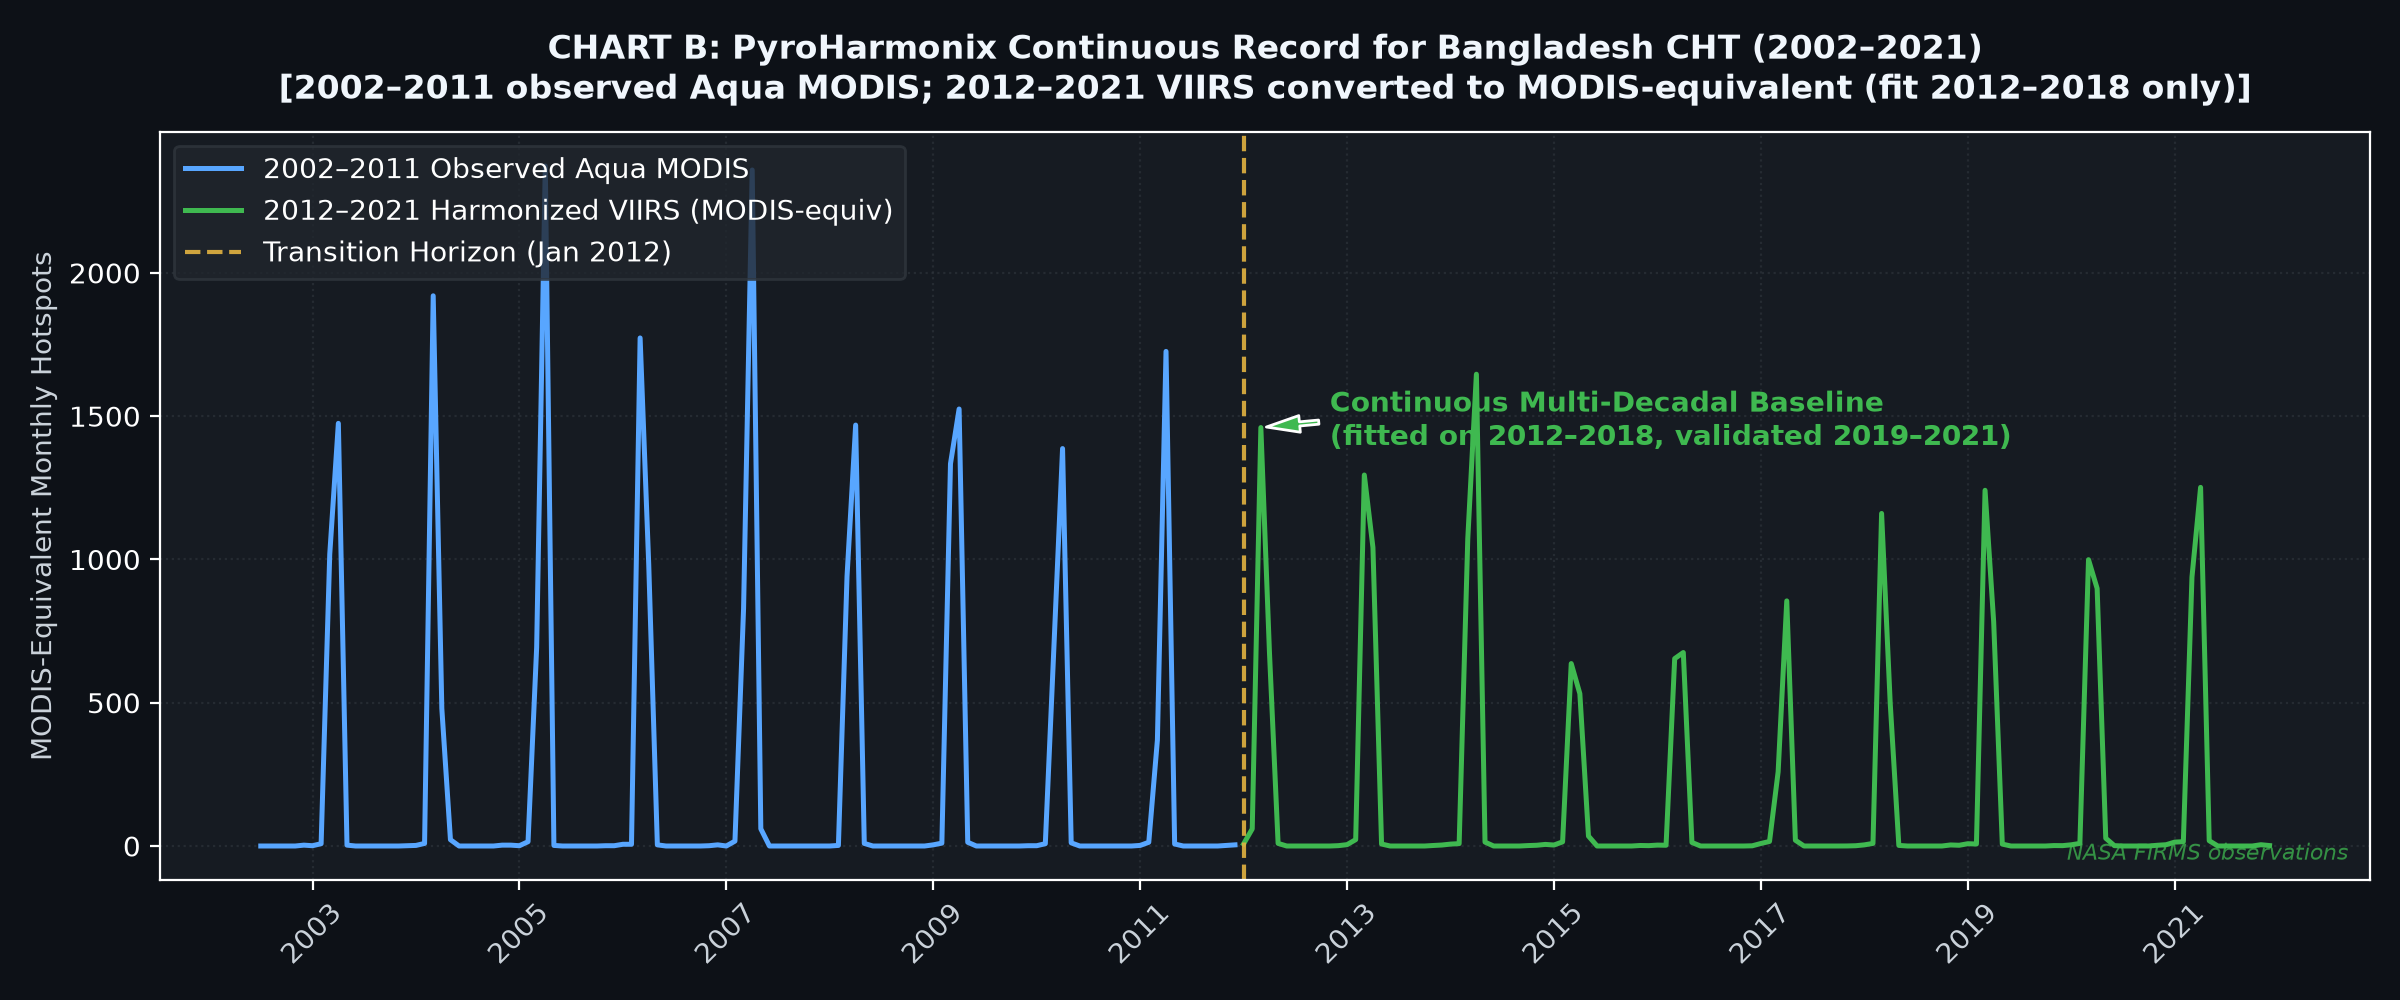
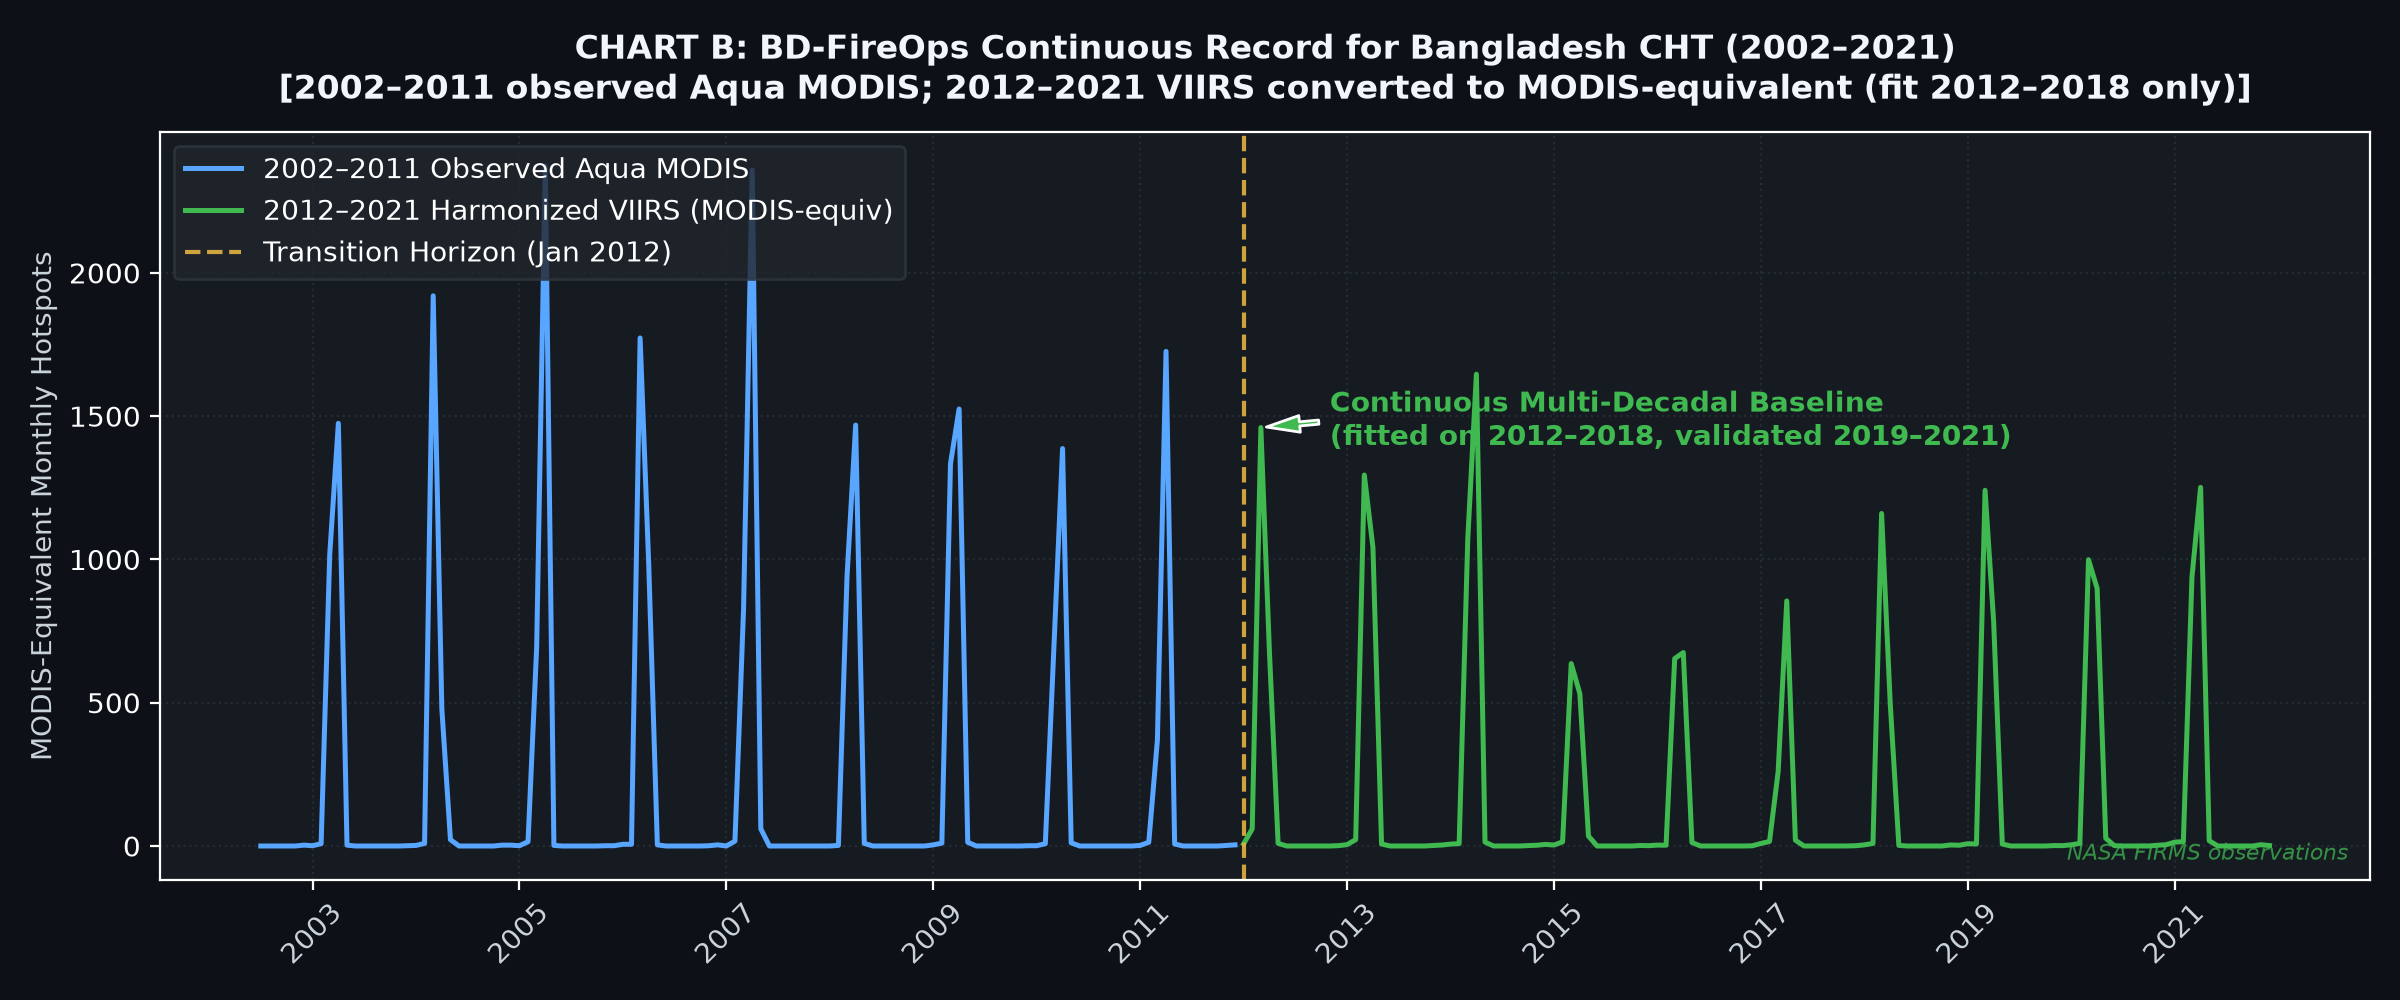
fix(data): clamp study window, audit Aqua/Terra split, atomic clean writes
VIIRS 2022-01-01 straggler row now dropped loudly (dropped_outside_window) instead of silently vanishing in aggregate; MODIS audit records pre-filter raw_aqua/terra split with post-filter note; clean.py writes atomically so a killed run cannot publish a truncated CSV. Re-ran pipeline: headline fit unchanged (slope 0.2694, RMSE 55.67, R2 0.9811); README/portal copy synced.

Changed region(s): [[0.2188, 0.031, 0.8438, 0.062]]

diff --git a/analysis/clean.py b/analysis/clean.py
@@ -18,7 +18,9 @@ from __future__ import annotations
 
 import argparse
 import json
+import os
 import sys
+import tempfile
 from pathlib import Path
 
 import numpy as np
@@ -36,6 +38,16 @@ BBOX_W, BBOX_S, BBOX_E, BBOX_N = (float(v) for v in CHT_BBOX.split(","))
 
 MODIS_CONF_MIN = 30
 VIIRS_DROP_CONF = {"l"}
+
+# Study-period clamp (plan v3 §2 scope lock, matches download.py WINDOWS).
+# FIRMS can return a straggler day past the window edge (e.g. 2022-01-01 inside
+# a 2021-12-29_2021-12-31 chunk). Without this gate that row sits in clean_*.csv
+# while the monthly grid ends at 2021-12, so aggregate drops it SILENTLY and the
+# audit last_date disagrees with data_source.json windows. Clamp loudly instead.
+STUDY_WINDOWS = {
+    "modis": ("2002-07-01", "2021-12-31"),
+    "viirs": ("2012-01-01", "2021-12-31"),
+}
 
 # True-study-area gate: the download bbox is a rectangle that also covers parts of
 # India (Mizoram) and Myanmar (Rakhine). We keep only detections inside the three
@@ -141,6 +153,31 @@ def _drop_bad_coords(df: pd.DataFrame) -> pd.DataFrame:
     return df[ok.fillna(False)]
 
 
+def _clamp_study_window(df: pd.DataFrame, audit: dict, sensor: str) -> pd.DataFrame:
+    """Drop detections outside the plan scope window; count them loudly.
+
+    Must run AFTER acq_date is parsed to UTC (NaT rows are already gone) and
+    BEFORE clean_rows is recorded, so clean_rows + dropped counts reconcile
+    and aggregate.py never silently ignores a clean row outside its grid.
+    """
+    start_s, end_s = STUDY_WINDOWS[sensor]
+    audit["study_window"] = f"{start_s} .. {end_s}"
+    if df.empty:
+        audit["dropped_outside_window"] = 0
+        return df
+    start = pd.Timestamp(start_s, tz="UTC")
+    # End-of-day inclusive: a 2021-12-31 detection is in-scope, 2022-01-01 is not.
+    end = pd.Timestamp(end_s, tz="UTC") + pd.Timedelta(days=1) - pd.Timedelta(nanoseconds=1)
+    ok = (df["acq_date"] >= start) & (df["acq_date"] <= end)
+    audit["dropped_outside_window"] = int((~ok.fillna(False)).sum())
+    if audit["dropped_outside_window"]:
+        bad = df.loc[~ok.fillna(False), "acq_date"]
+        audit["outside_window_range"] = [str(bad.min().date()), str(bad.max().date())]
+        print(f"[CLEAN] {sensor}: dropped {audit['dropped_outside_window']} row(s) "
+              f"outside study window {audit['study_window']}")
+    return df[ok.fillna(False)]
+
+
 def clean_modis(df: pd.DataFrame, keep_low_conf: bool = False) -> tuple[pd.DataFrame, dict]:
     audit: dict = {"sensor": "modis", "raw_rows": int(len(df))}
     if df.empty:
@@ -148,6 +185,13 @@ def clean_modis(df: pd.DataFrame, keep_low_conf: bool = False) -> tuple[pd.DataF
         return df, audit
 
     df = df.copy()
+    # MODIS raw split is counted BEFORE the confidence gate: aqua_rows/terra_rows
+    # below are post-filter, so raw != aqua+terra when low-confidence rows were
+    # removed first (audit note added to stop readers mis-adding them).
+    if "satellite" in df.columns:
+        _raw_sat = df["satellite"].astype(str)
+        audit["raw_aqua_rows"] = int(_raw_sat.str.contains("AQUA", case=False, na=False).sum())
+        audit["raw_terra_rows"] = int(_raw_sat.str.contains("TERRA", case=False, na=False).sum())
     if "confidence" in df.columns:
         df["confidence_num"] = _norm_confidence(df["confidence"])
         if keep_low_conf:
@@ -173,6 +217,8 @@ def clean_modis(df: pd.DataFrame, keep_low_conf: bool = False) -> tuple[pd.DataF
     n_terra = int(probe.str.contains("TERRA", case=False, na=False).sum())
     audit["aqua_rows"] = n_aqua
     audit["terra_rows"] = n_terra
+    audit["aqua_terra_note"] = ("post-confidence-filter split; raw_aqua_rows/raw_terra_rows "
+                                "are the pre-filter split")
 
     if n_aqua > 0:
         df = df[aqua_mask]
@@ -200,6 +246,8 @@ def clean_modis(df: pd.DataFrame, keep_low_conf: bool = False) -> tuple[pd.DataF
     df["acq_date"] = pd.to_datetime(df["acq_date"], errors="coerce", utc=True)
     df = df[df["acq_date"].notna()]
     audit["dropped_bad_dates"] = before - int(len(df))
+
+    df = _clamp_study_window(df, audit, "modis")
 
     audit["clean_rows"] = int(len(df))
     return df.reset_index(drop=True), audit
@@ -256,6 +304,8 @@ def clean_viirs(df: pd.DataFrame, keep_low_conf: bool = False) -> tuple[pd.DataF
     df = df[df["acq_date"].notna()]
     audit["dropped_bad_dates"] = before - int(len(df))
 
+    df = _clamp_study_window(df, audit, "viirs")
+
     audit["clean_rows"] = int(len(df))
     return df.reset_index(drop=True), audit
 
@@ -285,11 +335,26 @@ def run_clean(keep_low_conf: bool = False) -> dict:
             audit["last_date"] = str(clean["acq_date"].max().date())
         out = PROCESSED / f"clean_{sensor}{'_lowconf' if keep_low_conf else ''}.csv"
 
-        # Always write a header so downstream readers never hit an empty file.
+        # Atomic write: the full 285k-row run exceeds the tool runner's 30 s
+        # limit, which once left a truncated 48k-row clean_viirs.csv in place
+        # (silent data corruption). Write to .tmp then atomically replace, so a
+        # kill can never publish a half-written CSV. Same-directory tmp keeps
+        # the replace atomic; delete=False + explicit replace afterwards.
+        tmp = out.with_suffix(".csv.tmp")
         if clean.empty:
-            pd.DataFrame(columns=raw.columns).to_csv(out, index=False)
+            pd.DataFrame(columns=raw.columns).to_csv(tmp, index=False)
         else:
-            clean.to_csv(out, index=False)
+            with tempfile.NamedTemporaryFile("w", suffix=".csv", delete=False,
+                                             dir=str(PROCESSED), newline="",
+                                             encoding="utf-8") as _tf:
+                tmp = Path(_tf.name)
+                clean.to_csv(_tf, index=False)
+                _tf.flush()
+                try:
+                    os.fsync(_tf.fileno())
+                except OSError:
+                    pass  # e.g. synthetic FS in tests without a real fd
+        os.replace(tmp, out)
         audits[sensor] = audit
         print(f"[CLEAN] {sensor}: {audit['raw_rows']} -> {audit['clean_rows']} rows "
               f"(ref={audit.get('reference_sensor', 'VIIRS S-NPP')})")

diff --git a/tests/test_pipeline.py b/tests/test_pipeline.py
@@ -63,6 +63,13 @@ pd.DataFrame(modis_rows, columns=MODIS_COLS).to_csv(m_dir / "2002-07-01_2002-07-
 pd.DataFrame(columns=MODIS_COLS).to_csv(m_dir / "2002-07-06_2002-07-10.csv", index=False)
 # later zero chunk, leaving a coverage GAP between 2002-08 and 2011-11
 pd.DataFrame(columns=MODIS_COLS).to_csv(m_dir / "2011-12-01_2011-12-05.csv", index=False)
+# out-of-window straggler: chunk name is inside coverage, but the API sometimes
+# returns a day past the study edge (real 2022-01-01 case in VIIRS). The
+# study-window clamp must drop it loudly instead of aggregating it silently.
+pd.DataFrame([{"latitude": 22.19, "longitude": 92.22, "acq_date": "2030-05-01", "acq_time": 510,
+     "satellite": "Aqua", "instrument": "MODIS", "confidence": 90, "version": "6.1",
+     "type": 0, "scan": 1.0, "track": 1.0, "frp": 20.0, "daynight": "D"}],
+    columns=MODIS_COLS).to_csv(m_dir / "2011-12-06_2011-12-10.csv", index=False)
 
 v_dir = RAW / "viirs"
 v_dir.mkdir(parents=True)
@@ -97,12 +104,18 @@ def check(name, cond, detail=""):
         print(f"FAIL: {name} {detail}")
 
 
-check("modis raw 6 rows", audits["modis"]["raw_rows"] == 6, audits["modis"])
+check("modis raw 6 rows", audits["modis"]["raw_rows"] == 7, audits["modis"])
 check("modis clean 1 row (dup+lowconf+Terra+bbox+region removed)", audits["modis"]["clean_rows"] == 1, audits["modis"])
 check("modis region gate dropped the out-of-CHT row", audits["modis"]["dropped_outside_region"] == 1, audits["modis"])
+check("study-window clamp dropped the 2030 straggler", audits["modis"].get("dropped_outside_window") == 1, audits["modis"])
+check("study window recorded", audits["modis"].get("study_window") == "2002-07-01 .. 2021-12-31", audits["modis"])
+check("raw pre-filter aqua/terra split recorded",
+      audits["modis"].get("raw_aqua_rows") == 6 and audits["modis"].get("raw_terra_rows") == 1, audits["modis"])
+check("post-filter split recorded with note",
+      audits["modis"].get("aqua_rows") == 5 and "post-confidence" in audits["modis"].get("aqua_terra_note", ""))
 check("region filter recorded with source", "geoBoundaries" in (audits["modis"].get("region_filter") or {}).get("source", ""), audits["modis"])
 check("aqua filter applied", audits["modis"]["aqua_filter_applied"] is True)
-check("terra counted but dropped", audits["modis"]["terra_rows"] == 1 and audits["modis"]["aqua_rows"] == 4,
+check("terra counted but dropped", audits["modis"]["terra_rows"] == 1 and audits["modis"]["aqua_rows"] == 5,
       audits["modis"])
 check("viirs raw 4 rows", audits["viirs"]["raw_rows"] == 4, audits["viirs"])
 check("viirs clean 2 rows (low conf 'l' + out-of-CHT dropped)", audits["viirs"]["clean_rows"] == 2, audits["viirs"])

diff --git a/analysis/aggregate.py b/analysis/aggregate.py
@@ -162,6 +162,19 @@ def run_aggregate() -> pd.DataFrame:
 
     grid = _month_grid(list(coverage.values()))
 
+    # Defence-in-depth: clean.py clamps to the study window, but if a clean row
+    # ever falls outside the monthly grid it would vanish silently here.
+    # Fail loudly (or count loudly) instead of publishing a censored series.
+    for s in SOURCES:
+        counts = _monthly_counts(cleans[s])
+        outside = [str(p) for p in counts.index if p not in grid]
+        if outside:
+            raise SystemExit(
+                f"[AGGREGATE] {s.upper()}: {len(outside)} clean month(s) outside the monthly grid "
+                f"({', '.join(sorted(outside)[:5])}) — clean.py study-window clamp and "
+                "data/raw chunk coverage disagree. Refusing to silently drop them."
+            )
+
     out = pd.DataFrame({"month": grid.astype(str)})
     out["year"] = grid.year
     out["month_num"] = grid.month

diff --git a/SUBMISSION_PORTAL_CONTENT.md b/SUBMISSION_PORTAL_CONTENT.md
@@ -28,14 +28,14 @@
 > 500-sample bootstrap coefficient interval, BD-FireOps reduces held-out test RMSE by
 > **95.1%** (from 1,130.64 to 55.67 hotspots/month) and cuts mean sensor bias by **99.1%**
 > (from +468.92 to −4.09 hotspots/month), reaching **R² = 0.9811** on unseen months.
-> Deployed as a NASA-style Mission Control Web GIS and a Streamlit data-science console, it
+> Deployed as a clean, light-themed web GIS and a Streamlit data-science console, it
 > gives climate scientists, the Bangladesh Forest Department and indigenous CHT communities
 > a continuous, uncertainty-quantified 20-year active-fire record (2002–2021) with the 2012
 > sensor step quantified and removed rather than hidden.
 
 ### Space Agency Data Used (Checkboxes & Citations)
 - **NASA FIRMS Area API — source `MODIS_SP` (MODIS 1 km active fire, Collection 6.1):** daily hotspots for the CHT search window, coverage window **2002-07 → 2021-12** (first CHT-district detection 2002-12-15); Aqua-only gate applied for the reference series (`satellite = Aqua`; Terra rows counted but excluded); district-polygon gate keeps 42,716 of 112,681 raw rows.
-- **NASA FIRMS Area API — source `VIIRS_SNPP_SP` (VIIRS 375 m active fire, Suomi-NPP):** daily hotspots for the CHT search window, coverage window **2012-01 → 2021-12** (`satellite = N`); district-polygon gate keeps 70,858 of 172,197 raw rows.
+- **NASA FIRMS Area API — source `VIIRS_SNPP_SP` (VIIRS 375 m active fire, Suomi-NPP):** daily hotspots for the CHT search window, coverage window **2012-01 → 2021-12** (`satellite = N`); study-window clamp drops 1 straggler day (2022-01-01) returned inside the final chunk, then the district-polygon gate keeps 70,857 of 172,197 raw rows.
 - **Boundary reference:** geoBoundaries BGD-ADM2 (BBS / OCHA ROAP), CC BY 3.0 — 54,300 MODIS / 85,857 VIIRS bbox rows outside Bandarban, Rangamati and Khagrachhari dropped.
 - **NASA Earthdata / NOAA NESDIS alerts:** *Suomi NPP Data Product Delivery to Cease on November 1, 2026* (NESDIS notice issued 2026-08-03 at 16:00 UTC; impact 13:00 UTC on 2026-11-01) and *Suomi NPP VIIRS Data Outage / Anomaly on June 1, 2026*.
 - **Academic Grounding:** Schroeder et al. (2014) *Remote Sensing of Environment*; Li et al. (2018) *JGR Atmospheres*; Farukh et al. (2023) *Atmosphere*.

diff --git a/README.md b/README.md
@@ -50,7 +50,7 @@ $$\text{MODIS}_{\text{equivalent}} = 0.2694 \times \text{VIIRS}_{375\text{m}} + 
 * **Same-month sensor ratio:** `3.71x` — mean raw VIIRS ÷ mean MODIS over the *same*
   2012–2021 months, i.e. the sensor sensitivity difference itself.
 * **log1p check:** did **not** improve held-out RMSE (243.95 vs 55.67) — reported as a robustness check, not as the chosen model.
-* **Confidence-threshold sensitivity:** Keeping low-confidence detections changes the fitted slope `0.2694` → `0.2464` (-8.54%) and held-out RMSE `55.67` → `58.43` (+4.96%, i.e. worse when looser thresholds are kept). Row counts: MODIS 42,716 → 43,792, VIIRS 70,858 → 77,873. The baseline thresholds are therefore the reported configuration; `data/processed/sensitivity.json` holds the numbers.
+* **Confidence-threshold sensitivity:** Keeping low-confidence detections changes the fitted slope `0.2694` → `0.2464` (-8.54%) and held-out RMSE `55.67` → `58.43` (+4.96%, i.e. worse when looser thresholds are kept). Row counts: MODIS 42,716 → 43,792, VIIRS 70,857 → 77,872. The baseline thresholds are therefore the reported configuration; `data/processed/sensitivity.json` holds the numbers.
 * **Interpretation:** a fitted *regional empirical relationship* for monthly counts — not a
   universal MODIS↔VIIRS conversion, and not a fire-cause classifier.
 * **Zero months:** 57 of 120 overlap months contain a zero
@@ -100,7 +100,7 @@ bd-fireops/
 ├── vendor/                     # Leaflet 1.9.4 + Chart.js 4.4.1, vendored (no CDN dependency)
 ├── probe_firms.py              # Master CLI pipeline runner
 ├── index.html                  # Standalone client-side Web GIS dashboard
-├── style.css                   # NASA space-grade dark CSS design tokens
+├── style.css                   # Light, simple CSS (white background, big cards)
 ├── app.js                      # Leaflet mapping and Chart.js interactive controls
 ├── robots.txt                  # Crawler policy for the deployed static site
 ├── requirements.txt            # Python dependencies (pinned)
